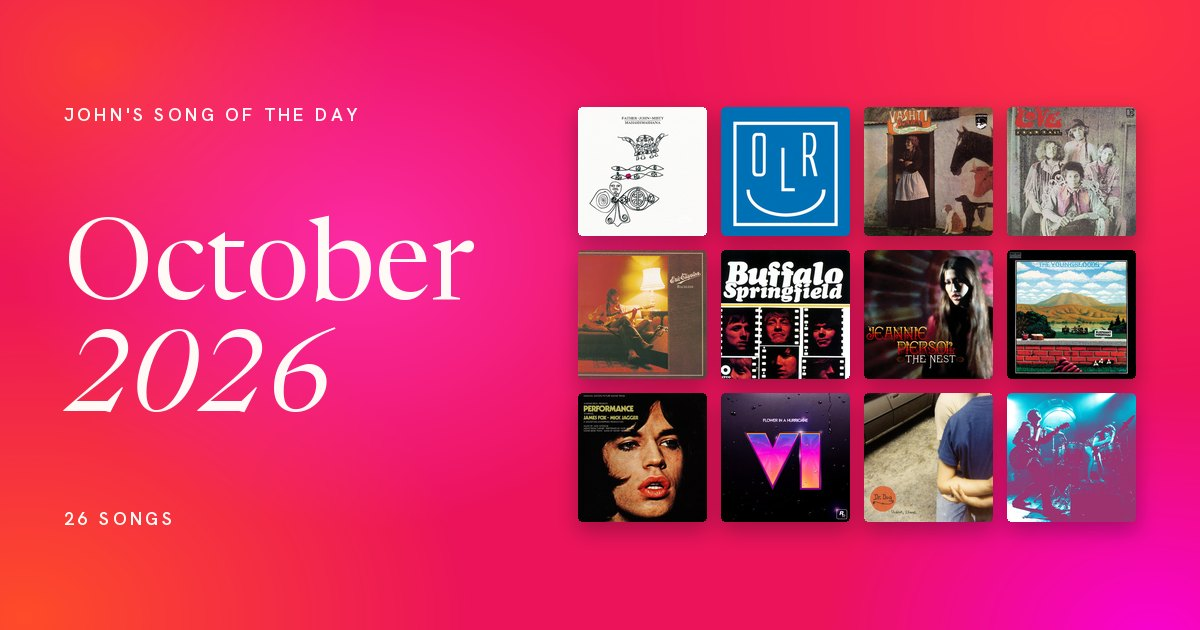
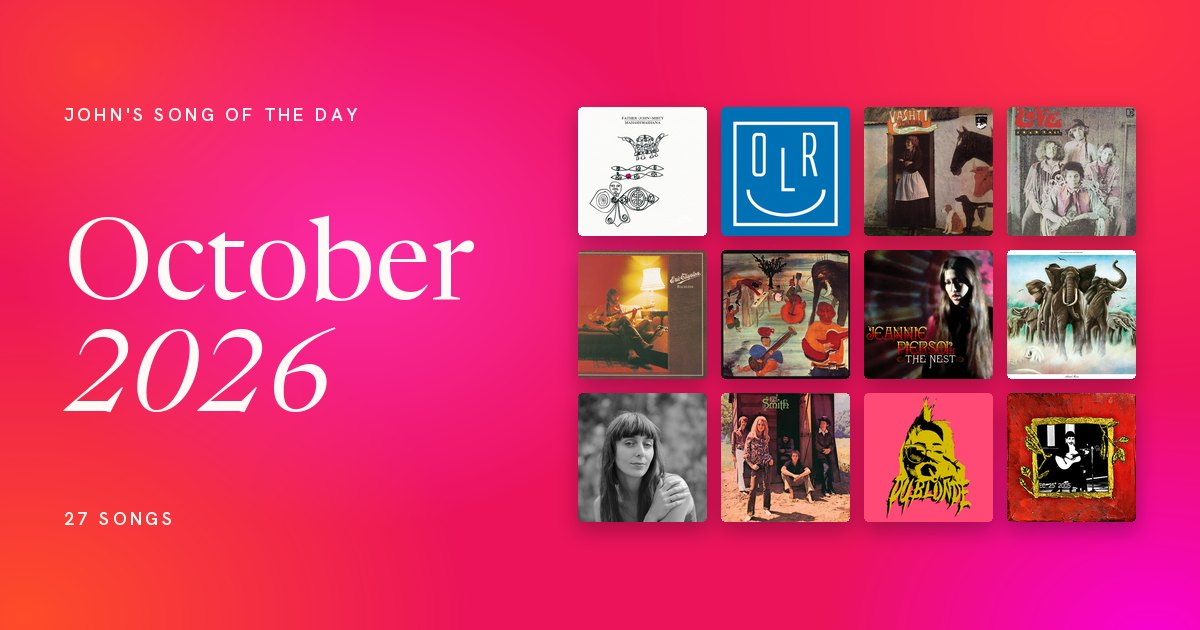
Song moods and genres: update from the latest songs

Changed region(s): [[0.4625, 0.3921, 0.9558, 0.8444], [0.0617, 0.8143, 0.0925, 0.8444]]

diff --git a/songs/today/index.html b/songs/today/index.html
@@ -3,24 +3,24 @@
 <head>
 <meta charset="utf-8">
 <meta name="viewport" content="width=device-width,initial-scale=1">
-<title>Here Comes the Night · John's Song of the Day</title>
-<meta name="description" content="KOLARS · John&#x27;s Song of the Day, Monday 26 October 2026">
+<title>Shoulder Song · John's Song of the Day</title>
+<meta name="description" content="Victor Jones · John&#x27;s Song of the Day, Tuesday 27 October 2026">
 <link rel="canonical" href="https://cooperking.github.io/songs/today/">
 <meta property="og:type" content="music.song">
 <meta property="og:site_name" content="John's Song of the Day">
-<meta property="og:title" content="Here Comes the Night">
-<meta property="og:description" content="KOLARS · John&#x27;s Song of the Day, Monday 26 October 2026">
+<meta property="og:title" content="Shoulder Song">
+<meta property="og:description" content="Victor Jones · John&#x27;s Song of the Day, Tuesday 27 October 2026">
 <meta property="og:url" content="https://cooperking.github.io/songs/today/">
-<meta property="og:image" content="https://cooperking.github.io/songs/26-10-2026/card.jpg">
-<meta property="og:image:secure_url" content="https://cooperking.github.io/songs/26-10-2026/card.jpg">
+<meta property="og:image" content="https://cooperking.github.io/songs/27-10-2026/card.jpg">
+<meta property="og:image:secure_url" content="https://cooperking.github.io/songs/27-10-2026/card.jpg">
 <meta property="og:image:type" content="image/jpeg">
 <meta property="og:image:width" content="1200">
 <meta property="og:image:height" content="630">
-<meta property="og:image:alt" content="Here Comes the Night by KOLARS">
-<meta name="twitter:image" content="https://cooperking.github.io/songs/26-10-2026/card.jpg">
+<meta property="og:image:alt" content="Shoulder Song by Victor Jones">
+<meta name="twitter:image" content="https://cooperking.github.io/songs/27-10-2026/card.jpg">
 <meta name="twitter:card" content="summary_large_image">
-<meta name="twitter:title" content="Here Comes the Night">
-<meta name="twitter:description" content="KOLARS · John&#x27;s Song of the Day, Monday 26 October 2026">
+<meta name="twitter:title" content="Shoulder Song">
+<meta name="twitter:description" content="Victor Jones · John&#x27;s Song of the Day, Tuesday 27 October 2026">
 <meta name="theme-color" content="#ec135b">
 <link rel="icon" type="image/png" sizes="96x96" href="https://cooperking.github.io/songs/favicon-96.png?v=2">
 <link rel="icon" type="image/png" sizes="192x192" href="https://cooperking.github.io/songs/icon-192.png?v=2">
@@ -28,6 +28,6 @@
 <script>if (!/bot|crawl|spider|preview|facebookexternalhit|facebot|whatsapp|telegram|slack|discord|linkedin|pinterest|embedly|iframely|skype|viber|signal|vkshare|redditbot|applebot|google|bing/i.test(navigator.userAgent)) location.replace("../" + location.search + "#today");</script>
 </head>
 <body style="font-family: Georgia, serif; padding: 24px;">
-<p><a href="../#today">Here Comes the Night by KOLARS</a>, John's Song of the Day for Monday 26 October 2026.</p>
+<p><a href="../#today">Shoulder Song by Victor Jones</a>, John's Song of the Day for Tuesday 27 October 2026.</p>
 </body>
 </html>

diff --git a/songs/27-10-2026/index.html b/songs/27-10-2026/index.html
@@ -1,0 +1,33 @@
+<!doctype html>
+<html lang="en">
+<head>
+<meta charset="utf-8">
+<meta name="viewport" content="width=device-width,initial-scale=1">
+<title>Shoulder Song · John's Song of the Day</title>
+<meta name="description" content="Victor Jones · John&#x27;s Song of the Day, Tuesday 27 October 2026">
+<link rel="canonical" href="https://cooperking.github.io/songs/27-10-2026/">
+<meta property="og:type" content="music.song">
+<meta property="og:site_name" content="John's Song of the Day">
+<meta property="og:title" content="Shoulder Song">
+<meta property="og:description" content="Victor Jones · John&#x27;s Song of the Day, Tuesday 27 October 2026">
+<meta property="og:url" content="https://cooperking.github.io/songs/27-10-2026/">
+<meta property="og:image" content="https://cooperking.github.io/songs/27-10-2026/card.jpg">
+<meta property="og:image:secure_url" content="https://cooperking.github.io/songs/27-10-2026/card.jpg">
+<meta property="og:image:type" content="image/jpeg">
+<meta property="og:image:width" content="1200">
+<meta property="og:image:height" content="630">
+<meta property="og:image:alt" content="Shoulder Song by Victor Jones">
+<meta name="twitter:image" content="https://cooperking.github.io/songs/27-10-2026/card.jpg">
+<meta name="twitter:card" content="summary_large_image">
+<meta name="twitter:title" content="Shoulder Song">
+<meta name="twitter:description" content="Victor Jones · John&#x27;s Song of the Day, Tuesday 27 October 2026">
+<meta name="theme-color" content="#ec135b">
+<link rel="icon" type="image/png" sizes="96x96" href="https://cooperking.github.io/songs/favicon-96.png?v=2">
+<link rel="icon" type="image/png" sizes="192x192" href="https://cooperking.github.io/songs/icon-192.png?v=2">
+<link rel="apple-touch-icon" sizes="180x180" href="https://cooperking.github.io/songs/apple-touch-icon.png?v=2">
+<script>if (!/bot|crawl|spider|preview|facebookexternalhit|facebot|whatsapp|telegram|slack|discord|linkedin|pinterest|embedly|iframely|skype|viber|signal|vkshare|redditbot|applebot|google|bing/i.test(navigator.userAgent)) location.replace("../" + location.search + "#27-10-2026");</script>
+</head>
+<body style="font-family: Georgia, serif; padding: 24px;">
+<p><a href="../#27-10-2026">Shoulder Song by Victor Jones</a>, John's Song of the Day for Tuesday 27 October 2026.</p>
+</body>
+</html>

diff --git a/songs/10-2026/index.html b/songs/10-2026/index.html
@@ -4,12 +4,12 @@
 <meta charset="utf-8">
 <meta name="viewport" content="width=device-width,initial-scale=1">
 <title>October 2026 · John's Song of the Day</title>
-<meta name="description" content="26 songs for each day">
+<meta name="description" content="27 songs for each day">
 <link rel="canonical" href="https://cooperking.github.io/songs/10-2026/">
 <meta property="og:type" content="website">
 <meta property="og:site_name" content="John's Song of the Day">
 <meta property="og:title" content="October 2026">
-<meta property="og:description" content="26 songs for each day">
+<meta property="og:description" content="27 songs for each day">
 <meta property="og:url" content="https://cooperking.github.io/songs/10-2026/">
 <meta property="og:image" content="https://cooperking.github.io/songs/10-2026/card.jpg">
 <meta property="og:image:secure_url" content="https://cooperking.github.io/songs/10-2026/card.jpg">
@@ -26,6 +26,6 @@
 <script>if (!/bot|crawl|spider|preview|facebookexternalhit|facebot|whatsapp|telegram|slack|discord|linkedin|pinterest|embedly|iframely|skype|viber|signal|vkshare|redditbot|applebot|google|bing/i.test(navigator.userAgent)) location.replace("../" + location.search + "#10-2026");</script>
 </head>
 <body style="font-family: Georgia, serif; padding: 24px;">
-<p><a href="../#10-2026">October 2026</a>: 26 songs for each day</p>
+<p><a href="../#10-2026">October 2026</a>: 27 songs for each day</p>
 </body>
 </html>

diff --git a/songs/index.html b/songs/index.html
@@ -4,11 +4,11 @@
 <meta charset="utf-8">
 <meta name="sotd-build" content="6c8bd174f943">
 <meta name="viewport" content="width=device-width, initial-scale=1, viewport-fit=cover">
-<meta name="description" content="A song a day, 259 so far">
+<meta name="description" content="A song a day, 260 so far">
 <meta name="theme-color" content="#ec135b">
 <meta property="og:type" content="website">
 <meta property="og:title" content="John’s Song of the Day">
-<meta property="og:description" content="A song a day, 259 so far">
+<meta property="og:description" content="A song a day, 260 so far">
 <meta property="og:url" content="https://cooperking.github.io/songs/">
 <meta property="og:image" content="https://cooperking.github.io/songs/card.jpg">
 <meta property="og:image:type" content="image/jpeg">
